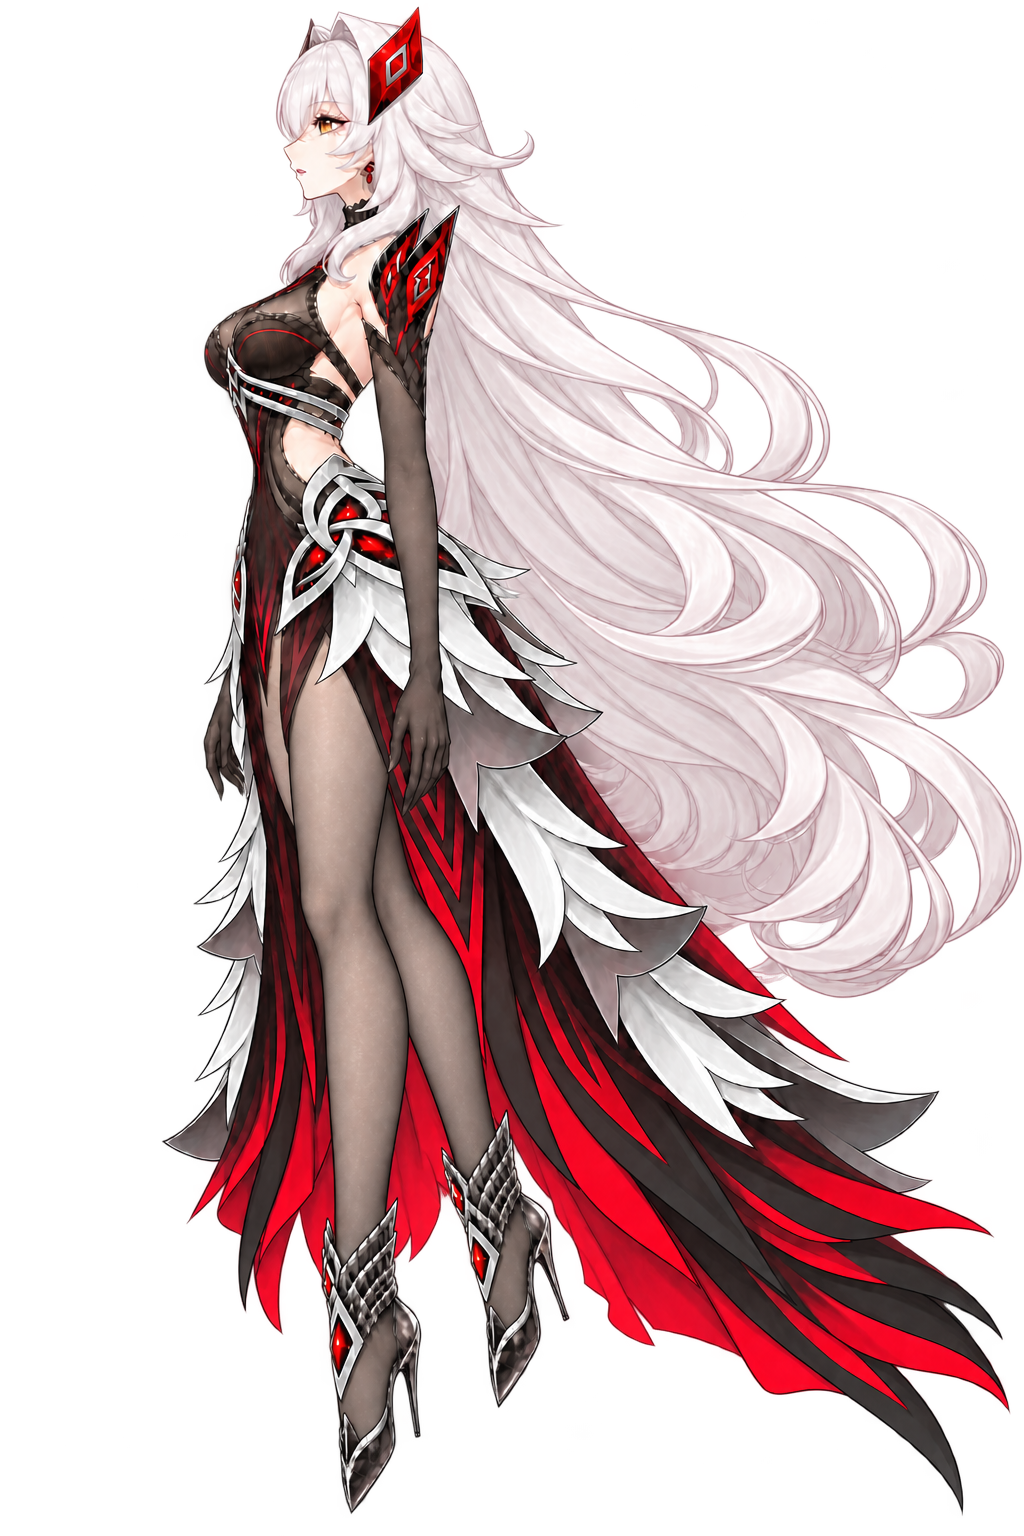
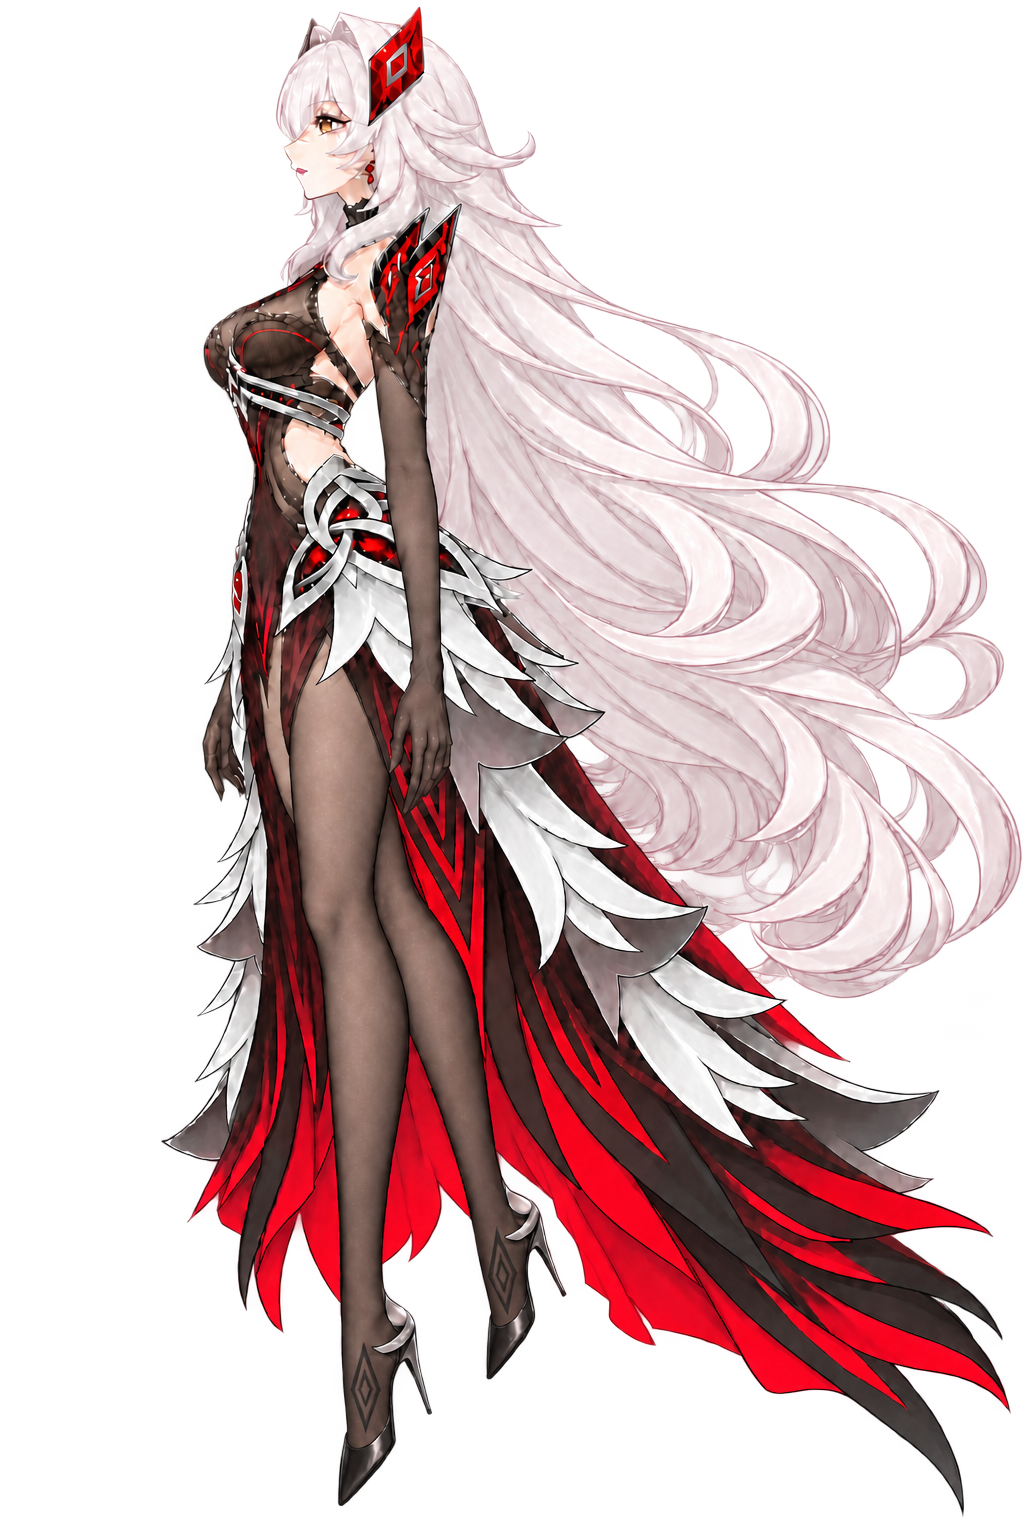
Add alternating articulated walk and reference shoe details

diff --git a/Sources/main.swift b/Sources/main.swift
@@ -31,6 +31,9 @@ let settings = Settings()
 
 final class PetScene: SKScene {
     var pet = SKSpriteNode()
+    var legRig: WalkingRig!
+    var gaitPhase: Double = 0
+    var gaitBlend: Float = 0
     var clock: Double = 0
     var last: Double = 0
     var nextBlink: Double = 8
@@ -49,7 +52,7 @@ final class PetScene: SKScene {
         super.init(size:size)
         backgroundColor = .clear; scaleMode = .resizeFill
         for y in 0...rows { for x in 0...cols { source.append(SIMD2(Float(x)/Float(cols),Float(y)/Float(rows))) } }
-        pet.subdivisionLevels=0; addChild(pet); loadView(); nextBlink = Double.random(in:settings.blinkMin...settings.blinkMax)
+        pet.subdivisionLevels=0; addChild(pet); legRig=WalkingRig(parent:self); loadView(); nextBlink = Double.random(in:settings.blinkMin...settings.blinkMax)
     }
     required init?(coder:NSCoder) { fatalError() }
     func texture(_ name:String) -> SKTexture {
@@ -62,6 +65,7 @@ final class PetScene: SKScene {
         let name=names[displayView]
         let bodyName = facing == nil ? name : (displayView == 3 ? "walk-left" : "walk-right")
         pet.texture=texture(bodyName)
+        if facing != nil {legRig.load(displayView);pet.texture=legRig.body}
         let shader=SKShader(source:"""
         void main() {
             vec2 uv = v_tex_coord;
@@ -80,12 +84,14 @@ final class PetScene: SKScene {
     func layout() {
         let h = min(size.height-40,(size.width-120)*1.5)
         pet.size=CGSize(width:h/1.5,height:h); pet.position=CGPoint(x:size.width/2,y:size.height/2)
+        legRig?.layout(size:pet.size,position:pet.position,visible:facing != nil)
     }
     override func didChangeSize(_ oldSize:CGSize) { layout() }
     override func update(_ time:TimeInterval) {
         if manual {return}
         let dt=last==0 ? 0 : min(0.1,time-last);last=time
         if settings.paused {return}
+        gaitBlend += (min(1,max(0,walking ? 1 : 0))-gaitBlend)*Float(min(1,dt*8))
         clock += dt
         if clock >= nextBlink { blinkEnd=clock+0.16;nextBlink=clock+Double.random(in:settings.blinkMin...settings.blinkMax);blinkCount += 1 }
         render(clock,blink:clock < blinkEnd)
@@ -93,7 +99,8 @@ final class PetScene: SKScene {
     func render(_ t:Double,blink:Bool) {
         let p=Float(t/settings.period*2 * .pi), a=Float(settings.amplitude)
         let nod=Float(max(0,1-abs(t-greeting-1.8)/1.8))
-        let gait=Float(t/2.4*2 * .pi)
+        let phase = manual ? t/WalkCycle.previewPeriod : gaitPhase
+        let gait=Float(phase*2 * .pi)
         let walkPose = facing != nil
         let clothPhase = walkPose ? gait : p
         let clothScale:Float = walkPose ? (walking ? 0.18 : 0) : a
@@ -112,26 +119,19 @@ final class PetScene: SKScene {
             let skirt=sin(clothPhase-1.1+x*2)*0.016*clothScale*hem
             // Floating pose: translate every vertex, including both feet.
             var dx=bodyX+hair+skirt
-            var dy=bodyY + cos(clothPhase-0.8-y*2)*0.004*clothScale*outer*hairRegion - nod*0.005*upper
+            let dy=bodyY + cos(clothPhase-0.8-y*2)*0.004*clothScale*outer*hairRegion - nod*0.005*upper
             if walking {
                 // Small opposing shoulder/hip motion, no whole-body floating or rocking.
                 let torso=max(0,1-abs(y-0.62)/0.24)
                 dx += sin(gait)*0.003*(y-0.62)/0.24*torso
-                // Separate smooth leg influence regions; the hips stay fixed.
-                let near:Float = displayView == 3 ? 0.320 : 0.805
-                let far:Float = displayView == 3 ? 0.440 : 0.680
-                let lower=max(0,min(1,(0.43-y)/0.32))
-                let n=exp(-pow((x-near)/0.055,2))*lower
-                let f=exp(-pow((x-far)/0.055,2))*lower
-                let direction:Float = displayView == 3 ? -1 : 1
-                dx += direction*sin(gait)*0.018*(n-f)
-                dy += 0.008*(max(0,cos(gait))*n+max(0,-cos(gait))*f)
+
             }
             // Rotate in physical aspect ratio around the body center, then float.
             let rx=(x-0.5)*ca-(y-0.52)*1.5*sa
             let ry=(x-0.5)/1.5*sa+(y-0.52)*ca
             dest.append(SIMD2(0.5+rx+dx,0.52+ry+dy))
         }
+        if walkPose {legRig.render(phase:phase,amount:manual ? (walking ? 1 : 0) : gaitBlend)}
         pet.warpGeometry=SKWarpGeometryGrid(columns:cols,rows:rows,sourcePositions:source,destinationPositions:dest)
         pet.shader?.uniformNamed("u_blink")?.floatValue = (blink || settings.rest) ? 1 : 0
     }
@@ -310,7 +310,7 @@ final class Controller:NSObject,NSApplicationDelegate,NSWindowDelegate {
         if turnWait>0 {turnWait=max(0,turnWait-dt);scene.walking=false}
         else if maxX-area.minX>4 {
             scene.walking=true
-            let strideSpeed=max(8,CGFloat(settings.height/1.5)*0.03)
+            let strideSpeed=max(8,scene.pet.size.width * CGFloat(WalkCycle.stride / WalkCycle.stance / WalkCycle.previewPeriod))
             walkSpeed=min(strideSpeed,walkSpeed+CGFloat(dt)*12)
             origin.x += walkDirection*walkSpeed*CGFloat(dt)
             if origin.x<=area.minX || origin.x>=maxX {
@@ -319,6 +319,10 @@ final class Controller:NSObject,NSApplicationDelegate,NSWindowDelegate {
                 updateWalkingView();scene.walking=false
             }
         } else {scene.walking=false}
+        if scene.walking {
+            let moved=abs(origin.x-(walkX ?? window.frame.origin.x))
+            scene.gaitPhase += Double(moved/max(1,scene.pet.size.width)) / (WalkCycle.stride/WalkCycle.stance)
+        }
         walkX=origin.x
         automaticMove=true;window.setFrameOrigin(origin);automaticMove=false
     }
@@ -341,7 +345,7 @@ final class Controller:NSObject,NSApplicationDelegate,NSWindowDelegate {
         let i=NSMenuItem(title:title,action:action,keyEquivalent:"");i.target=self;i.tag=tag;i.state=checked ? .on : .off;return i
     }
     func makeMenu()->NSMenu {
-        let m=NSMenu();m.addItem(NSMenuItem(title:"Ronova 1.2.6",action:nil,keyEquivalent:""))
+        let m=NSMenu();m.addItem(NSMenuItem(title:"Ronova 1.3.0",action:nil,keyEquivalent:""))
         m.addItem(.separator())
         let v=NSMenuItem(title:"视角",action:nil,keyEquivalent:"");let vm=NSMenu();for i in 0..<5{vm.addItem(item(labels[i],#selector(selectView(_:)),i,settings.view==i))};v.submenu=vm;m.addItem(v)
         m.addItem(item("自然待机",#selector(natural),0,!settings.rest));m.addItem(item("闭目休息",#selector(rest),0,settings.rest));m.addItem(item("轻轻致意（双击）",#selector(greet)))
@@ -431,6 +435,26 @@ final class Controller:NSObject,NSApplicationDelegate,NSWindowDelegate {
             view.dragOffset = .zero;activityTick(1);report["routineDragFreezes"]=routineTime==oldTime;view.dragOffset=nil
             stopRoutine();settings.wandering=false;scene.facing=nil;scene.walking=false
         }
+        var planted = true, alternating = true, continuous = true
+        for i in 0..<1000 {
+            let p = Double(i)/1000
+            let a = WalkCycle.foot(p), b = WalkCycle.foot(p+0.5)
+            alternating = alternating && !(a.y > 0.00001 && b.y > 0.00001)
+            if p+0.0001 < WalkCycle.stance {
+                let next = WalkCycle.foot(p+0.0001)
+                let screenDrift = Double(next.x-a.x) + WalkCycle.stride/WalkCycle.stance*0.0001
+                planted = planted && abs(screenDrift) < 0.000001 && a.y == 0
+            }
+            let next = WalkCycle.foot(p+0.001)
+            continuous = continuous && abs(next.x-a.x)<0.002 && abs(next.y-a.y)<0.002
+        }
+        report["stanceFootLocksToGround"]=planted
+        report["legsAlternateWithGroundSupport"]=alternating
+        report["gaitLoopIsContinuous"]=continuous
+        let h=SIMD2<Float>(0,0), a=SIMD2<Float>(0.03,-0.59)
+        let k=WalkCycle.knee(hip:h,ankle:a,upper:0.3,lower:0.31,direction:1)
+        func length(_ v:SIMD2<Float>)->Float {sqrt(v.x*v.x+v.y*v.y)}
+        report["legBonesKeepTheirLength"] = abs(length(k-h)-0.3)<0.0001 && abs(length(a-k)-0.31)<0.0001
         report["assets"]=names;report["periodSeconds"]=settings.period;report["blinkRangeSeconds"]=[settings.blinkMin,settings.blinkMax]
         scene.manual=false;scene.clock=0;scene.last=0;scene.rescheduleBlink()
         var blinkTimes=[Double]();var previousCount=scene.blinkCount
@@ -442,17 +466,20 @@ final class Controller:NSObject,NSApplicationDelegate,NSWindowDelegate {
         scene.manual=true;scene.clock=0;scene.last=0;scene.rescheduleBlink()
         var index=0
         func step(){
-            if index>=14 {if CommandLine.arguments.contains("--quick") { NSApp.terminate(nil);return };self.captureMovie(dir:dir){
+            if index>=30 {if CommandLine.arguments.contains("--quick") { NSApp.terminate(nil);return };self.captureMovie(dir:dir){
                 if let data=try? JSONSerialization.data(withJSONObject:report,options:.prettyPrinted){try? data.write(to:URL(fileURLWithPath:dir+"/checks.json"))};NSApp.terminate(nil)};return}
             let outputName:String
             if index<10 {
                 settings.view=index/2;self.scene.facing=nil;self.scene.walking=false
                 outputName=names[index/2]
-            } else {
+            } else if index<14 {
                 self.scene.facing=index<12 ? 3 : 4;self.scene.walking=true
                 outputName=index<12 ? "walk-left" : "walk-right"
+            } else {
+                self.scene.facing=index<22 ? 3 : 4;self.scene.walking=true
+                outputName="gait-\(index<22 ? "left" : "right")-\((index-14)%8)"
             }
-            self.scene.loadView();self.scene.render(0,blink:index%2==1)
+            self.scene.loadView();self.scene.render(index<14 ? 0 : Double((index-14)%8)/8*WalkCycle.previewPeriod,blink:index<14 && index%2==1)
             DispatchQueue.main.asyncAfter(deadline:.now()+0.15){
                 if let cg=self.view.texture(from:self.scene)?.cgImage(){let rep=NSBitmapImageRep(cgImage:cg);try? rep.representation(using:.png,properties:[:])?.write(to:URL(fileURLWithPath:dir+"/\(outputName)-\(index%2).png"))}
                 index += 1;step()

diff --git a/Sources/WalkingRig.swift b/Sources/WalkingRig.swift
@@ -1,0 +1,110 @@
+import AppKit
+import SpriteKit
+
+// Two independently articulated legs. Positions are in texture coordinates.
+struct WalkCycle {
+    static let stance: Double = 0.62
+    static let stride: Double = 0.105
+    static let previewPeriod: Double = 2.6
+    static func foot(_ phase: Double) -> SIMD2<Float> {
+        let p = phase - floor(phase)
+        if p < stance {
+            return SIMD2(Float(stride * (0.5 - p / stance)), 0)
+        }
+        let u = (p - stance) / (1 - stance)
+        // Hermite return: velocity matches the planted foot at toe-off and landing.
+        let m = -(1 - stance) / stance
+        let travel = (-2*u*u*u+3*u*u) + m*(2*u*u*u-3*u*u+u)
+        return SIMD2(Float(stride * (travel - 0.5)), Float(0.025 * pow(sin(.pi*u), 2)))
+    }
+    static func knee(hip: SIMD2<Float>, ankle: SIMD2<Float>, upper: Float, lower: Float, direction: Float) -> SIMD2<Float> {
+        let delta = ankle - hip
+        let distance = max(0.0001, min(sqrt(delta.x*delta.x+delta.y*delta.y), upper+lower-0.0001))
+        let unit = delta / max(0.0001,sqrt(delta.x*delta.x+delta.y*delta.y))
+        let along = (upper*upper-lower*lower+distance*distance)/(2*distance)
+        let bend = sqrt(max(0,upper*upper-along*along))
+        let forward = SIMD2(-unit.y,unit.x)*direction
+        return hip+unit*along+forward*bend
+    }
+}
+
+final class WalkingRig {
+    let far = SKSpriteNode(), near = SKSpriteNode()
+    var body: SKTexture?
+    var facing = 4
+    var layerOrigin=SIMD2<Float>(0,0)
+    var layerScale: Float = 1
+    let columns = 36, rows = 60
+    var source = [SIMD2<Float>]()
+    var hip = SIMD2<Float>(0,0), knee = SIMD2<Float>(0,0), ankle = SIMD2<Float>(0,0)
+    var cache = [Int:(SKTexture,SKTexture)]()
+    init(parent: SKNode) {
+        far.zPosition = 1; near.zPosition = 2
+        parent.addChild(far); parent.addChild(near)
+        for node in [near,far] {node.shader=SKShader(source:"""
+        void main() {
+            vec4 c = texture2D(u_texture,v_tex_coord);
+            float a = smoothstep(0.90,0.98,c.a);
+            gl_FragColor = vec4(c.rgb*(a/max(c.a,0.001))*u_shade,a);
+        }
+        """);node.shader?.uniforms=[SKUniform(name:"u_shade",float:node === far ? 0.88 : 1)] }
+        far.color = .black; far.colorBlendFactor = 0.13
+        for y in 0...rows { for x in 0...columns { source.append(SIMD2(Float(x)/Float(columns),Float(y)/Float(rows))) } }
+    }
+    func load(_ side: Int) {
+        facing=side
+        if side==4 {
+            layerOrigin=SIMD2(0.43,0.98);layerScale=0.53
+            hip=SIMD2(0.765,0.56);knee=hip+(SIMD2(0.56,0.65)-layerOrigin)*layerScale;ankle=hip+(SIMD2(0.585,0.215)-layerOrigin)*layerScale
+        } else {
+            layerOrigin=SIMD2(0.366,0.88);layerScale=0.673
+            hip=SIMD2(0.33,0.56);knee=hip+(SIMD2(0.354,0.57)-layerOrigin)*layerScale;ankle=hip+(SIMD2(0.327,0.23)-layerOrigin)*layerScale
+        }
+        if let stored=cache[side] {body=stored.0;near.texture=stored.1;far.texture=stored.1;return}
+        func texture(_ part:String)->SKTexture {
+            let url=Bundle.main.resourceURL!.appendingPathComponent("Assets/walk-\(side==3 ? "left" : "right")-\(part).png")
+            guard let image=NSImage(contentsOf:url) else {fatalError("Missing walking layer: \(url.lastPathComponent)")}
+            let texture=SKTexture(image:image);texture.filteringMode = .linear;return texture
+        }
+        // The body asset contains no legs. A clean single-leg cutout is skinned
+        // independently twice, so no old foot remains beneath the moving layers.
+        let pair=(texture("body"),texture("leg"));cache[side]=pair
+        body=pair.0;near.texture=pair.1;far.texture=pair.1
+    }
+    func layout(size:CGSize,position:CGPoint,visible:Bool) {
+        for node in [near,far] {node.size=size;node.position=position;node.isHidden = !visible;node.subdivisionLevels=0}
+    }
+    func render(phase:Double,amount:Float) {
+        let direction:Float = facing==3 ? -1 : 1
+        func physical(_ p:SIMD2<Float>)->SIMD2<Float> {SIMD2(p.x,p.y*1.5)}
+        func length(_ p:SIMD2<Float>)->Float {sqrt(p.x*p.x+p.y*p.y)}
+        let h=physical(hip),k=physical(knee),a=physical(ankle)
+        for (index,node) in [near,far].enumerated() {
+            let offset=WalkCycle.foot(phase+Double(index)*0.5)*amount
+            // The far hip is behind the near hip, but both feet share the ground.
+            let depth:Float = index==0 ? 0 : -direction*0.022
+            let newH=h+SIMD2(depth,0)
+            let newA=a+SIMD2(depth+offset.x*direction,offset.y*1.5)
+            let newK=WalkCycle.knee(hip:newH,ankle:newA,upper:length(k-h),lower:length(a-k),direction:direction)
+            func rigid(_ p:SIMD2<Float>,_ start:SIMD2<Float>,_ end:SIMD2<Float>,_ targetStart:SIMD2<Float>,_ targetEnd:SIMD2<Float>)->SIMD2<Float> {
+                let u=end-start,v=targetEnd-targetStart
+                let angle=atan2(v.y,v.x)-atan2(u.y,u.x),q=p-start
+                return targetStart+SIMD2(q.x*cos(angle)-q.y*sin(angle),q.x*sin(angle)+q.y*cos(angle))
+            }
+            let dest=source.map {uv -> SIMD2<Float> in
+                let aligned=hip+(uv-layerOrigin)*layerScale
+                let p=physical(aligned)
+                let upper=rigid(p,h,k,newH,newK)
+                let lower=rigid(p,k,a,newK,newA)
+                let shoe=p+(newA-a)
+                func smooth(_ x:Float)->Float {let t=min(1,max(0,x));return t*t*(3-2*t)}
+                let kneeBlend=smooth((knee.y+0.025-aligned.y)/0.05)
+                let ankleBlend=smooth((ankle.y+0.025-aligned.y)/0.05)
+                let leg=upper*(1-kneeBlend)+lower*kneeBlend
+                let q=leg*(1-ankleBlend)+shoe*ankleBlend
+                return SIMD2(q.x,q.y/1.5)
+            }
+            node.warpGeometry=SKWarpGeometryGrid(columns:columns,rows:rows,sourcePositions:source,destinationPositions:dest)
+        }
+    }
+}

diff --git a/README.md b/README.md
@@ -4,13 +4,13 @@
 
 <img src="Assets/AppIcon.png" alt="若娜瓦头像" width="160">
 
-当前版本 **1.2.6**。使用 Swift、AppKit、SpriteKit 和 AVFoundation，无第三方运行依赖，可离线运行。
+当前版本 **1.3.0**。使用 Swift、AppKit、SpriteKit 和 AVFoundation，无第三方运行依赖，可离线运行。
 
 ## 功能
 
 - 五个离散视角，保持透明背景；眨眼仅替换眼部区域，避免整幅图换帧重影。
 - 悬浮时全身、双脚一起缓慢移动，发丝与裙摆轻微跟随。
-- 走动时切换脚掌放平的专用左右侧面，小步前进、肩胯轻微扭动，衣服轻摆。
+- 走动时使用独立双腿图层和髋、膝、踝关节变形，左右腿交替支撑与抬脚，鞋底保持落地方向；步态随实际移动距离推进，衣服轻摆。
 - 屏幕边缘自动折返，停顿后换向；拖动、暂停和系统睡眠时停止移动。
 - 随机生活循环：走动 20–38 秒 → 稍停 → 缓升 → 随机视角悬浮 20–34 秒 → 缓降 → 继续走动，期间随机致意或闭目片刻。
 - 白色卡通头像状态栏入口，支持置顶、鼠标穿透、暂停、恢复位置和退出。
@@ -65,7 +65,7 @@ docs/                   架构、素材说明、上传步骤和版本摘要
 
 ## 效果与素材说明
 
-动画基于二维图片网格变形，不是三维骨骼或真实物理模拟；五个视角为离散切换，走路为简化的小步动画。素材主要为 1024×1536 位图，过度放大不会增加细节。
+动画基于二维图层与网格变形，走路采用双段腿部关节解算；不是三维模型或真实物理模拟，五个视角为离散切换。素材主要为 1024×1536 位图，过度放大不会增加细节。
 
 角色素材依据参考图经图像生成及编辑制作，侧面细节含推演。角色及原始参考素材的权利归其权利人。本仓库没有为源码或美术素材指定开放许可证；公开仓库不等于授予素材再分发或商用授权，详见 [素材说明](docs/ASSETS.md)。
 

diff --git a/docs/ASSETS.md b/docs/ASSETS.md
@@ -2,7 +2,7 @@
 
 `front`、`left`、`right`、`profile-left`、`profile-right` 是五个悬浮视角；同名 `-closed` 素材仅用于眼部小矩形采样，其身体区域不会参与渲染，不代表当前腿部姿态。
 
-`walk-left.png` 和 `walk-right.png` 是脚掌放平的小步走路专用姿态。走路时复用相应侧面的眼部贴图。
+`walk-left.png` 和 `walk-right.png` 是脚掌放平的原始走路姿态。`walk-*-body.png` 为不含双腿的身体层，`walk-*-leg.png` 为独立单腿层，两条腿分别驱动。走路时复用相应侧面的眼部贴图。
 
 `AppIcon.png` 是透明人物头像，`Icon/Ronova.icon` 是当前分层图标源文件，`Assets/Compiled` 是其已编译资源；`AppIcon.icns` 仅为旧版参考。`StatusHead-source.png` 是状态栏白色卡通头像的源图，`StatusHead.png` 是36像素 Retina 版本，显示尺寸18点。
 
@@ -11,3 +11,5 @@
 编辑约束：保持角色面部和服装；悬浮姿态脚尖向下，走路姿态脚掌放平；双腿靠近，避免大幅岔开；仅眼部参与眨眼切换。
 
 角色及参考素材权利归其权利人。仓库暂未选择源码或美术素材许可证，不自动赋予第三方复制、修改、商用或再分发许可。
+
+鞋型按用户参考图改为黑色尖头高跟鞋，在鞋面和脚踝保留细长嵌套菱形纹路及少量银色装饰；腿部必须是素色丝袜，不添加交叉纹路或花纹。

diff --git a/docs/ARCHITECTURE.md b/docs/ARCHITECTURE.md
@@ -7,7 +7,7 @@
 - `PetView`：拖动、滚轮、双击和右键菜单。
 - `Controller`：透明无边框窗口、状态栏、设置面板、屏幕边界及自动行为。
 
-走路用独立的左右侧面素材；悬浮基础位移和旋转在走路时禁用。肩髋局部扭动，衣发按步频轻微滞后。窗口低速移动累积小数位移，避免系统位置取整造成原地踏步。
+走路使用 `WalkingRig` 和独立的身体/单腿素材：身体不含腿部，单腿图层分别驱动近腿与远腿，后腿适当压暗。62% 支撑期与38% 摆动期相差半周期，髋膝踝解算控制屈膝，脚部保持刚性平移；实际水平位移决定步态相位。悬浮基础位移和旋转在走路时禁用。肩髋局部扭动，衣发按步频轻微滞后。窗口低速移动累积小数位移，避免系统位置取整造成原地踏步。
 
 自动行为状态为 `walk → settle → rise → hover → land`。状态计时与渲染暂停一致，睡眠和拖动不累积自动行为时间。起浮最多32点且受屏幕可用区域限制。视角采用打乱列表，避免长期只用同一视角；切换不混合两张全身图片。
 

diff --git a/CHANGELOG.md b/CHANGELOG.md
@@ -1,5 +1,12 @@
 # 更新记录
 
+## 1.3.0
+
+- 走路改为两条独立腿部交替支撑与摆动，膝盖弯曲、抬脚和落脚随真实位移推进。
+- 身体图层去掉原腿，避免和运动腿叠加产生重影；双脚落地时保持鞋底方向。
+- 各视角鞋型改为细黑色尖头高跟鞋和细长嵌套菱形鞋纹及少量银色鞋口装饰，腿部恢复素色丝袜。
+- 增加步态连续性、支撑脚锁地及关节长度检查。
+
 ## 1.2.6
 
 - 应用显示名、文件名、菜单标题和安装卷名称统一为 `Ronova`。
